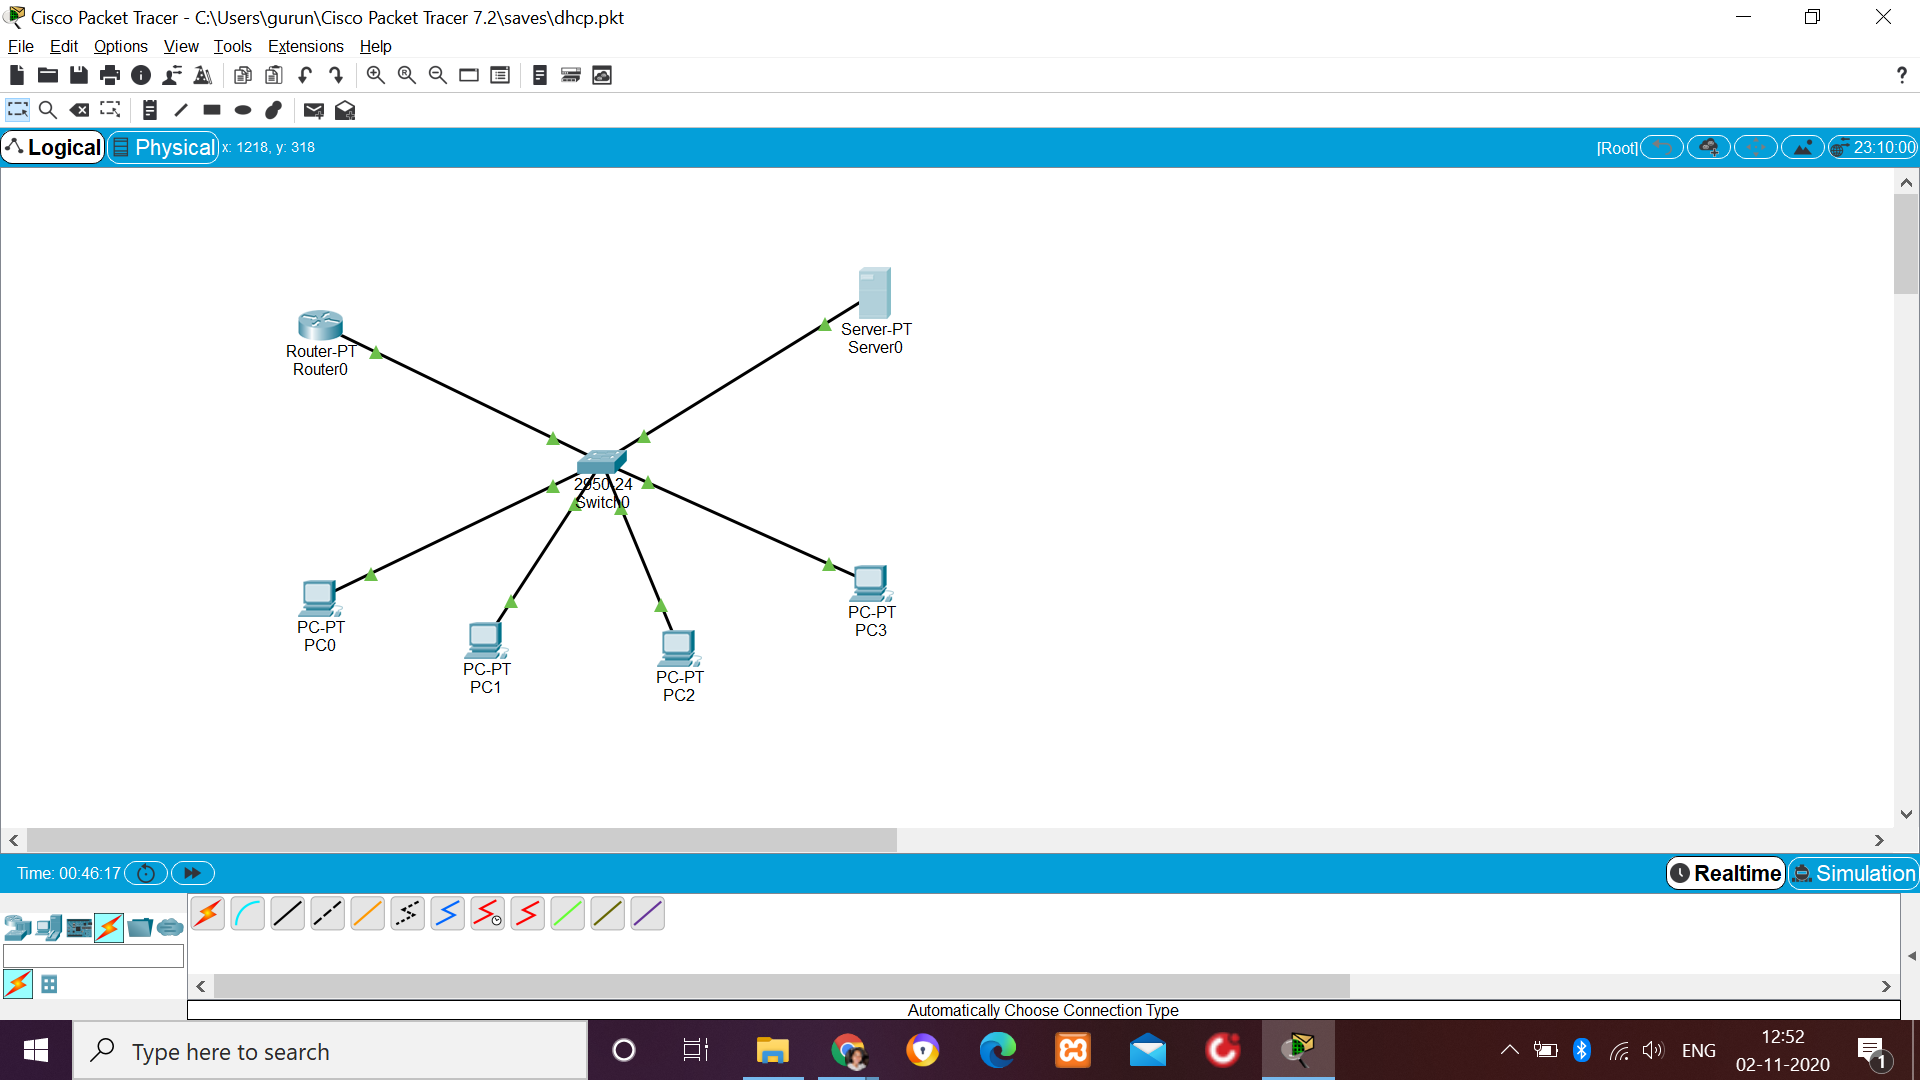
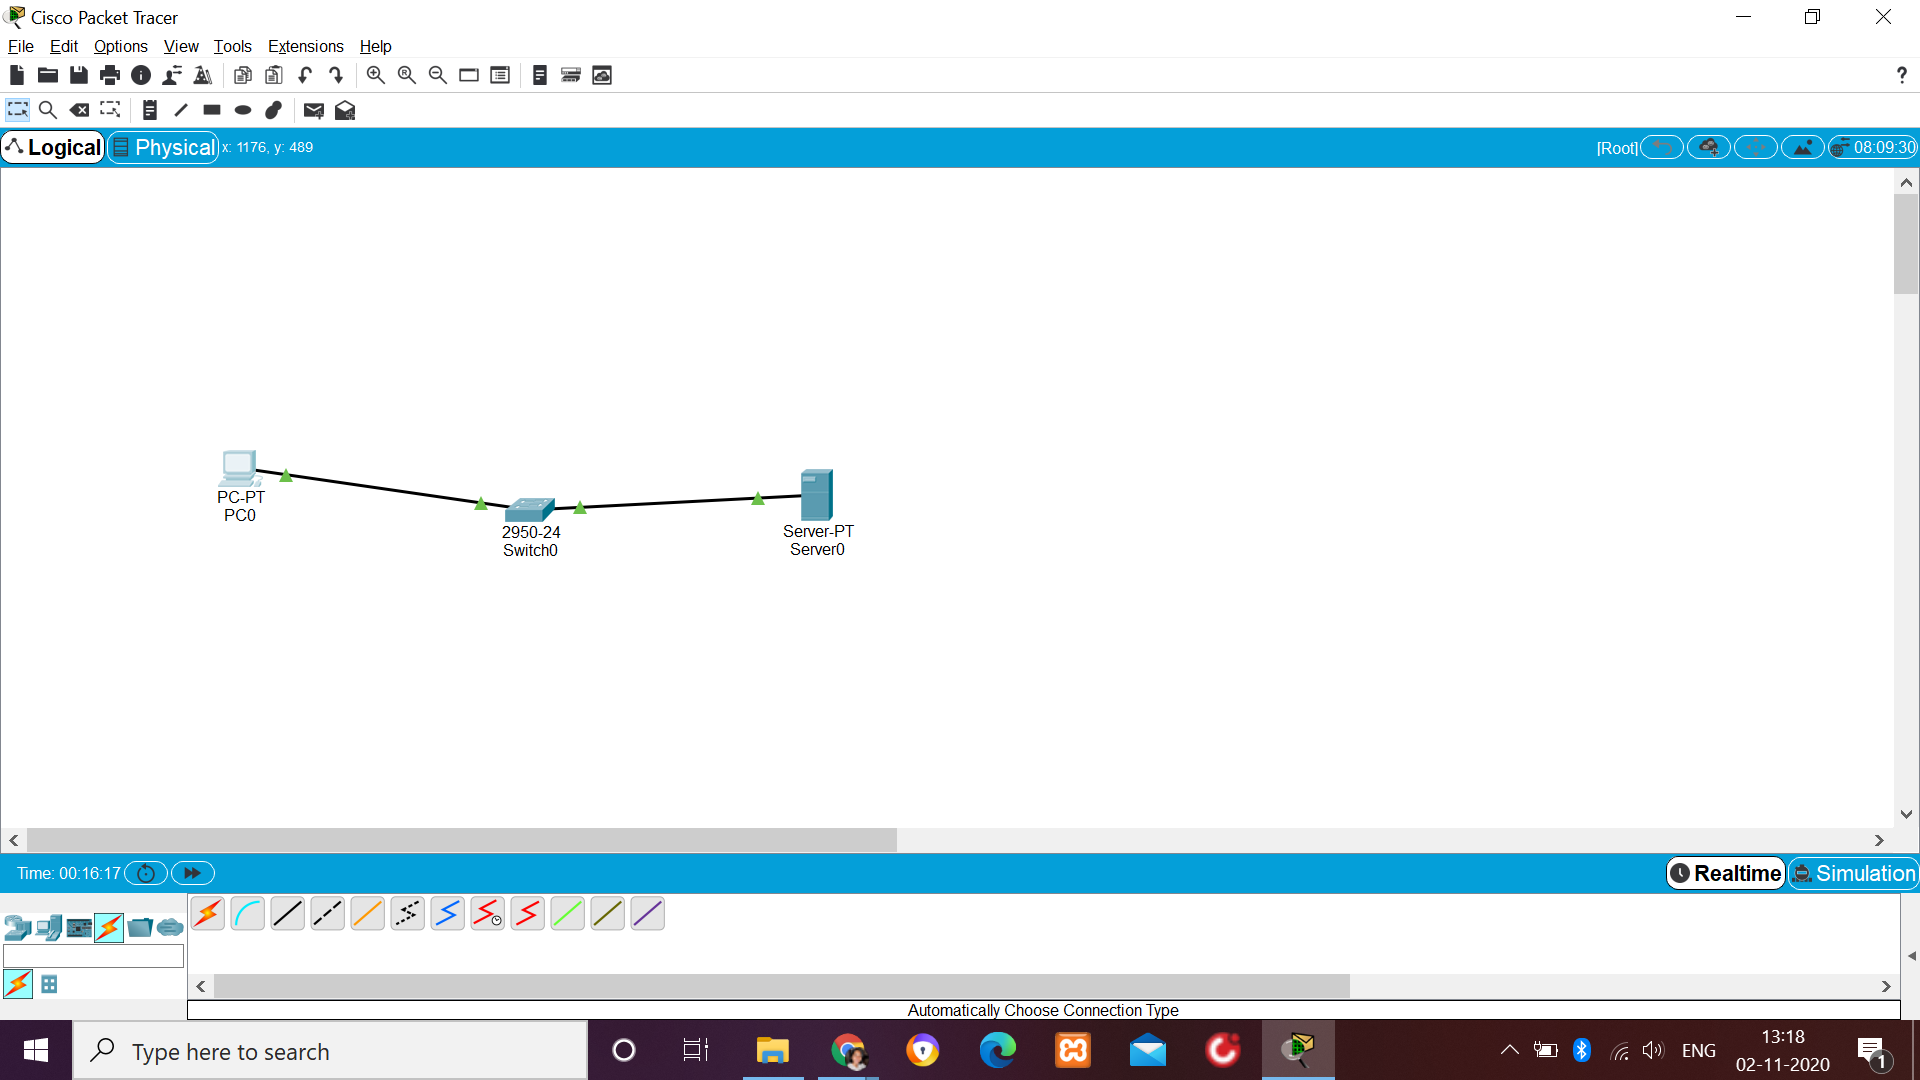
lab_6

diff --git a/outcome.md b/outcome.md
@@ -1,29 +1,23 @@
-## Configuring DHCP within a LAN
+## Configuring Web server and DNS
 <ul>
-<li><h3>A toplogy was created using a Router, a Switch, a Server and four PC's connected as shown in the figure</h3><br>
-<img src="https://github.com/18nanma/College-Labs/blob/master/Computer%20Networks%20-1BM18CS031/CN-Lab-5/dhcp%20exp-1/topology.png"/><br>
+<li><h3>A toplogy was created using a Switch, a Server and a PC connected as shown in the figure</h3><br>
+<img src="https://github.com/18nanma/College-Labs/blob/master/Computer%20Networks%20-1BM18CS031/CN-Lab-5/dns%20exp-2/topology.png"/><br>
 </li>
-<li><h3>The Router interface was configured using CLI</h3><br>
-<img src="https://github.com/18nanma/College-Labs/blob/master/Computer%20Networks%20-1BM18CS031/CN-Lab-5/dhcp%20exp-1/router%20config.png" /><br>
-<li><h3>The Server was configured specifying the default gateway, DNS server, TFTP server as shown below</h3></li>
-<img src="https://github.com/18nanma/College-Labs/blob/master/Computer%20Networks%20-1BM18CS031/CN-Lab-5/dhcp%20exp-1/server%20config.png" /><br>
+<li><h3>HTTP services of the server was switched on</h3></li>
 <br>
-<li><h3>The PCs request the Server for ip. Upon request, an ip address was successfully assigned to the PC</h3></li>
-<img src="https://github.com/18nanma/College-Labs/blob/master/Computer%20Networks%20-1BM18CS031/CN-Lab-5/dhcp%20exp-1/dhcp%20connection.png"/><br>
+<li><h3>DNS service of the Server was configured as shown in the figure</h3></li>
+<img src="https://github.com/18nanma/College-Labs/blob/master/Computer%20Networks%20-1BM18CS031/CN-Lab-5/dns%20exp-2/web%20brower%20output.png" /><br>
+<br>
+<li><h3>Typing the defined url in the web browser of PC gives the required result</h3></li>
+<img src="https://github.com/18nanma/College-Labs/blob/master/Computer%20Networks%20-1BM18CS031/CN-Lab-5/dns%20exp-2/http%20dns.png" /><br>
 <br>
 </ul>
 
 ### Learning outcomes
 <ul>
-<li>Creating a topology with router, switch, server and PCS.</li>
-<li>Configuring the server.</li>
-<li>4 steps in DHCP</li>
-<ul>
-<li>D - Discover the server</li>
-<li>O - Offer the IP address</li>
-<li>R - Request ip</li>
-<li>A - Acknowledgement</li>
-</ul>
-<li>Individual PC request the Server for an ip address</li>
-<li>An ip address is assigned to the PC from a pool of IP addresses by the DHCP server</li>
+<li>Creating a topology with switch, server and PC.</li>
+<li>Using HTTP services.</li>
+<li>Configuring the web server.</li>
+<li>Configuring DNS services so that we can use the name instead of ip address.</li>
+<li>Using the name or the ip address in the web browser of PC gives the required result.</li>
 </ul>
